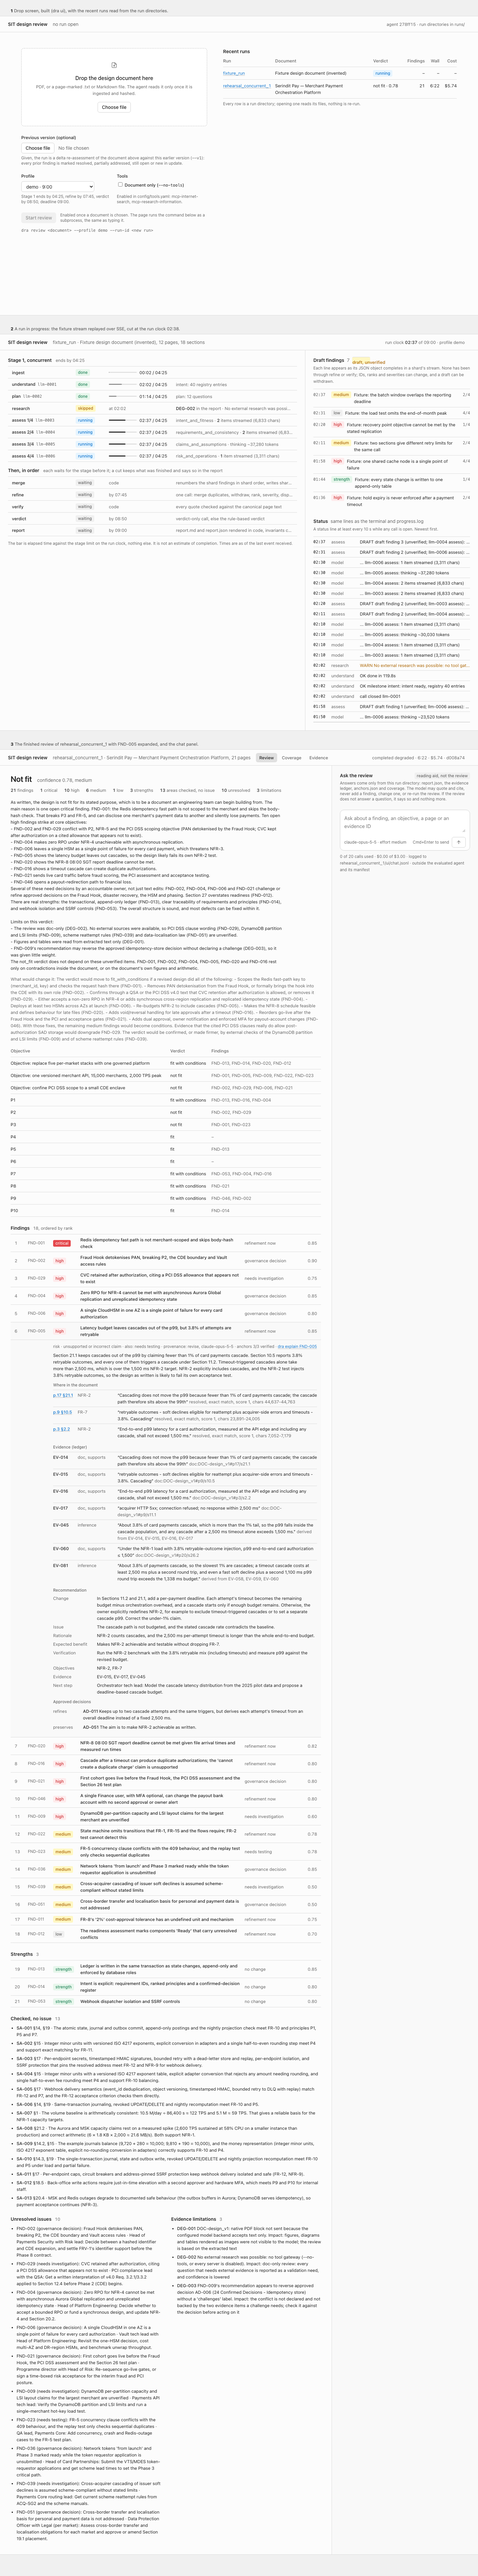
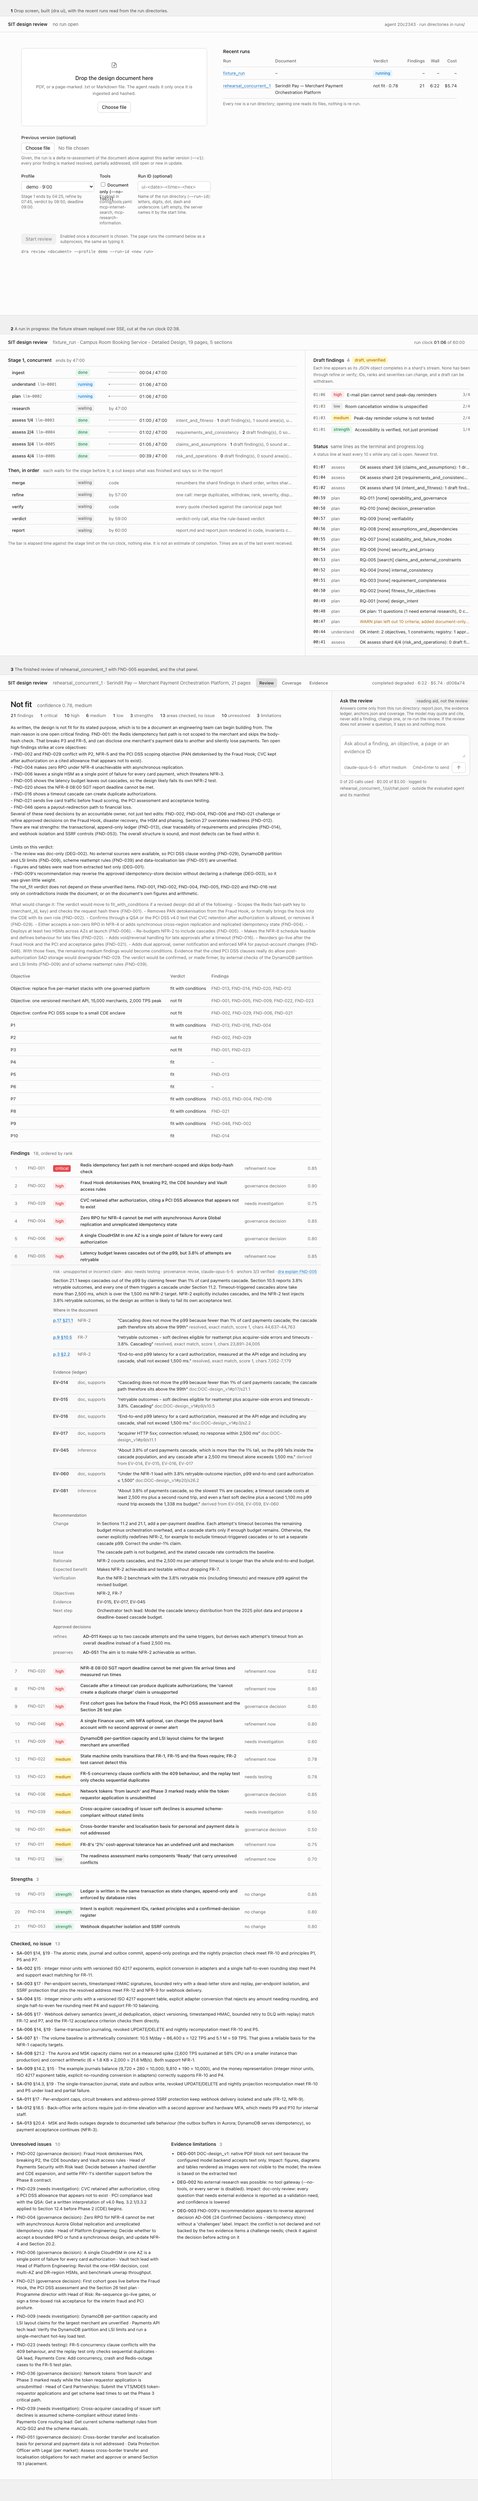
UI integration: replay, cut and resume on the page, tested in Chromium
tests/test_ui_page.py drives the shipped page in headless Chromium on
the real server: a dra replay of the committed rehearsal run (made in
a scratch run root by replay_run) opens with the "replayed evidence"
stamp, no Stop button and no track ever "running" (the stream is fed
record by record through the page's reducer: in flight means
"replayed"); the cut fixture's shard 2 shows "cut at mm:ss", its
disclosure ID, what it kept and the criteria not assessed, and its kept
drafts are in the feed; the resume fixture continues on the page with
one sequence, the failed phase done after the resume.

Two page fixes found by the pictures: a track whose call closed while
its phase was still open froze its time at the call's close (the end
now comes from phase_done unless the call was cut or failed), and the
"draft, unverified" pill matched the draft row rule through its
class (the row rules are scoped to the drafts list).

docs/design/ui_mockup/shoot_built.py reads the recorded stream (cut at
run clock 01:06, where every shard has drafted) and its pictures are
rebuilt from it.

diff --git a/agent/sit_review_agent/ui/static/app.css b/agent/sit_review_agent/ui/static/app.css
@@ -106,11 +106,11 @@ table.grid tr.link:hover { background: var(--bg-hover); }
 .feed { padding: 20px 24px 24px; min-width: 0; }
 .feed h2 { display: flex; align-items: center; gap: 8px; }
 .feed .rule { font-size: 12px; color: var(--fg-muted); margin: 4px 0 12px; }
-.draft { display: grid; grid-template-columns: 44px 1fr; gap: 10px; padding: 7px 0; border-top: 1px solid var(--border-subtle); font-size: 13px; }
-.draft .t { color: var(--fg-muted); }
-.draft .line { display: flex; gap: 8px; align-items: flex-start; }
-.draft .line .text { flex: 1; }
-.draft .line .who { color: var(--fg-muted); white-space: nowrap; }
+#drafts > .draft { display: grid; grid-template-columns: 44px 1fr; gap: 10px; padding: 7px 0; border-top: 1px solid var(--border-subtle); font-size: 13px; }
+#drafts > .draft .t { color: var(--fg-muted); }
+#drafts > .draft .line { display: flex; gap: 8px; align-items: flex-start; }
+#drafts > .draft .line .text { flex: 1; }
+#drafts > .draft .line .who { color: var(--fg-muted); white-space: nowrap; }
 .log { margin-top: 24px; }
 .log .rows { max-height: 560px; overflow-y: auto; border-bottom: 1px solid var(--border-subtle); }
 .log .row { display: grid; grid-template-columns: 44px 76px 1fr; gap: 10px; padding: 5px 0; border-top: 1px solid var(--border-subtle); font-size: 13px; }

diff --git a/agent/sit_review_agent/ui/static/app.js b/agent/sit_review_agent/ui/static/app.js
@@ -220,11 +220,9 @@ function applyEvent(m, ev) {
     case "call_retry": { const t = track(m, ev.phase); t.strong = null; t.text = "retry: " + words(f.reason); break; }
     case "call_closed": {
       const t = m.byCall.get(f.call_id); if (!t) break;
-      t.end = now;
-      if (f.outcome === "cut") { t.status = "cut"; t.cutAt = now; t.strong = null; t.text = typeof f.kept_items === "number" ? "kept " + intl(f.kept_items) + " finished item(s)" : t.text; }
-      else if (f.outcome === "replaced") { t.end = null; }
-      else if (CALL_FAILED.includes(f.outcome)) { t.status = "failed"; t.strong = null; t.text = words(f.outcome); }
-      else if (t.key.startsWith("assess ")) t.status = "done";
+      if (f.outcome === "cut") { t.status = "cut"; t.cutAt = now; t.end = now; t.strong = null; t.text = typeof f.kept_items === "number" ? "kept " + intl(f.kept_items) + " finished item(s)" : t.text; }
+      else if (CALL_FAILED.includes(f.outcome)) { t.status = "failed"; t.end = now; t.strong = null; t.text = words(f.outcome); }
+      else if (t.key.startsWith("assess ")) { t.status = "done"; t.end = now; }
       break;
     }
     case "draft_item":

diff --git a/tests/test_ui_page.py b/tests/test_ui_page.py
@@ -1,0 +1,174 @@
+"""The run view in a real browser (Chromium through Playwright; skipped where either is missing) on
+the recorded fixture streams and on a replayed run: a replay is stamped and never drawn as live, a
+cut shard shows its disclosure ID and what it kept, and a failed run resumed continues on the page
+with one sequence. The server is the real one on a loopback port; the page is the shipped page."""
+
+from __future__ import annotations
+
+import asyncio
+import json
+import shutil
+import socket
+import threading
+import time
+from pathlib import Path
+from typing import Any
+
+import pytest
+
+from sit_review_agent.ui import events
+from sit_review_agent.ui.launcher import Launcher
+from sit_review_agent.ui.server import UIState, build_app
+
+REPO = Path(__file__).resolve().parents[1]
+REHEARSAL = REPO / "docs" / "live_runs" / "rehearsal_concurrent_1"
+FIXTURES = Path(__file__).parent / "fixtures" / "ui"
+RUN_FILES = ("report.json", "manifest.json", "anchors.json", "ledger.json", "state.json", "effective_config.json",
+             "replay.json")
+
+
+def _free_port() -> int:
+    with socket.socket() as s:
+        s.bind(("127.0.0.1", 0))
+        return s.getsockname()[1]
+
+
+def records(path: Path) -> list[dict[str, Any]]:
+    return [json.loads(ln) for ln in path.read_text(encoding="utf-8").splitlines() if ln.strip()]
+
+
+@pytest.fixture(scope="module")
+def replayed(tmp_path_factory: pytest.TempPathFactory) -> Path:
+    """``dra replay`` of the committed rehearsal run into a scratch run root (offline: its recorded
+    model calls are served from ``llm.jsonl``)."""
+    from sit_review_agent.replay import replay_run
+
+    root = tmp_path_factory.mktemp("replay_root")
+    out = asyncio.run(replay_run(REHEARSAL, run_root=str(root), run_id="rehearsal_replay"))
+    assert out.exit_code == 0, out.message
+    return Path(out.run_dir)
+
+
+@pytest.fixture
+def served(tmp_path: Path, replayed: Path):
+    uvicorn = pytest.importorskip("uvicorn")
+    runs = tmp_path / "runs"
+    for name in ("progress.jsonl", "progress_cut.jsonl", "progress_resume.jsonl"):
+        d = runs / name[:-len(".jsonl")]
+        d.mkdir(parents=True)
+        shutil.copy2(FIXTURES / name, d / "progress.jsonl")
+    rp = runs / replayed.name
+    rp.mkdir()
+    for name in (*RUN_FILES, "progress.jsonl"):
+        if (replayed / name).is_file():
+            shutil.copy2(replayed / name, rp / name)
+    state = UIState(runs_dir=runs.resolve(), repo_root=REPO, launcher=Launcher(repo_root=REPO), chat_client=None,
+                    profiles=[], tools=[])  # type: ignore[arg-type]
+    port = _free_port()
+    server = uvicorn.Server(uvicorn.Config(build_app(state), host="127.0.0.1", port=port, log_level="warning"))
+    th = threading.Thread(target=server.run, daemon=True)
+    th.start()
+    for _ in range(200):
+        if server.started:
+            break
+        time.sleep(0.05)
+    yield f"http://127.0.0.1:{port}", runs
+    server.should_exit = True
+    th.join(timeout=5)
+
+
+@pytest.fixture
+def page(served):
+    sync_api = pytest.importorskip("playwright.sync_api")
+    base, runs = served
+    with sync_api.sync_playwright() as p:
+        try:
+            browser = p.chromium.launch()
+        except Exception as exc:  # noqa: BLE001 - Chromium not installed here
+            pytest.skip(f"Chromium not available: {exc}")
+        pg = browser.new_page(viewport={"width": 1440, "height": 900})
+        errors: list[str] = []
+        pg.on("pageerror", lambda e: errors.append(str(e)))
+        yield pg, base, runs
+        browser.close()
+    assert errors == []
+
+
+def open_run(pg: Any, base: str, run_id: str, tab: str | None = None) -> None:
+    pg.goto(base + f"/?run={run_id}" + (f"&tab={tab}" if tab else ""))
+    pg.wait_for_function("document.querySelector('#finished-bar') && !document.querySelector('#finished-bar').hidden")
+
+
+def tracks(pg: Any) -> dict[str, tuple[str, str]]:
+    rows = pg.evaluate("[...document.querySelectorAll('.track')].map(t => [t.dataset.track, t.dataset.status, "
+                       "t.querySelector('.status').textContent])")
+    return {r[0]: (r[1], r[2]) for r in rows}
+
+
+# ------------------------------------------------------------------ the replayed run (design note section 8)
+
+
+def test_a_replayed_run_is_stamped_and_never_drawn_as_live(page) -> None:
+    pg, base, runs = page
+    rp = next(p for p in runs.iterdir() if p.name.startswith("rehearsal_replay"))
+    evs = records(rp / "progress.jsonl")
+    assert events.started(evs)["mode"] == "replay"
+    opened = {r["fields"]["call_id"]: r["run_s"] for r in evs if r["type"] == "call_opened"}
+    closed = {r["fields"]["call_id"]: r["run_s"] for r in evs if r["type"] == "call_closed"}
+    assert opened and all(opened[c] == closed[c] for c in opened)      # replay opens a call just before closing it
+    open_run(pg, base, rp.name, tab="log")
+    assert pg.locator("#replay-stamp").inner_text() == "replayed evidence"
+    assert pg.locator(".pill.running").count() == 0 and pg.locator("#top-action button").count() == 0
+    t = tracks(pg)
+    assert all(t[k][0] == "done" for k in ("ingest", "understand", "plan", "research", "refine", "verify", "report"))
+    assert sorted(k for k in t if k.startswith("assess ")) == ["assess 1/4", "assess 2/4", "assess 3/4", "assess 4/4"]
+    # Fed record by record through the page's reducer, a track is never "running": in flight means "replayed".
+    seen = pg.evaluate("(evs) => { const m = SIT.newRunModel(); const st = new Set(); for (const ev of evs) { "
+                       "SIT.applyEvent(m, ev); for (const t of m.tracks.values()) st.add(t.status); } "
+                       "return [...st]; }", evs)
+    assert "running" not in seen and "replayed" in seen
+    report = json.loads((rp / "report.json").read_text(encoding="utf-8"))
+    assert pg.locator("#finished-bar").inner_text().endswith(f"{len(report['findings'])} findings.")
+
+
+# ------------------------------------------------------------------ a cut shard, a resumed run
+
+
+def test_the_cut_shard_shows_its_disclosure_id_and_what_it_kept(page) -> None:
+    pg, base, runs = page
+    evs = records(runs / "progress_cut" / "progress.jsonl")
+    cut = next(r["fields"] for r in evs if r["type"] == "shard_cut")
+    open_run(pg, base, "progress_cut")
+    t = tracks(pg)
+    key = f"assess {cut['shard']}/{cut['shards']}"
+    assert t[key][0] == "cut"
+    assert f"{cut['degradation_id']} in the report" in t[key][1]
+    assert f"kept {cut['kept']} finished finding(s)" in t[key][1]
+    assert all(c in t[key][1] for c in cut["criteria_not_assessed"])
+    pill = pg.locator(f'.track[data-track="{key}"] .pill').inner_text()
+    at = int(cut["cut_at_s"])
+    assert pill == f"cut at {at // 60:02d}:{at % 60:02d}"
+    assert [k for k, v in t.items() if v[0] == "cut"] == [key]
+    kept = [d["title"] for d in cut["kept_drafts"]]
+    titles = pg.locator("#drafts .draft .text").all_inner_texts()
+    assert all(k in titles for k in kept)
+    drafted = sum(r["fields"]["findings"] for r in evs if r["type"] == "shard_drafted")
+    assert len(titles) == drafted + len(kept)
+
+
+def test_a_resumed_run_continues_on_the_page_with_one_sequence(page) -> None:
+    pg, base, runs = page
+    evs = records(runs / "progress_resume" / "progress.jsonl")
+    open_run(pg, base, "progress_resume")
+    t = tracks(pg)
+    assert t["understand"][0] == "done" and t["report"][0] == "done"     # the failed phase ran again after the resume
+    assert pg.locator("#top-meta .pill", has_text="resumed").count() == 1
+    assert pg.locator("#status-feed .row").count() == sum(1 for r in evs if r["console"])
+    finished = [r for r in evs if r["type"] == "run_finished"]
+    assert [f["fields"]["exit_code"] for f in finished] == [3, 0]
+    assert pg.locator("#finished-bar").inner_text().startswith("Run finished: completed")
+    # The server streams both halves under one sequence.
+    sse = pg.evaluate("async (u) => { const r = await fetch(u); return await r.text(); }",
+                      base + "/runs/progress_resume/events")
+    ids = [int(ln[4:]) for ln in sse.splitlines() if ln.startswith("id: ")]
+    assert ids == list(range(1, len(evs) + 1)) and "event: end" in sse

diff --git a/docs/design/ui_mockup/shoot_built.py b/docs/design/ui_mockup/shoot_built.py
@@ -7,7 +7,7 @@ Writes ``built_1_drop.png``, ``built_2_running.png``, ``built_3_review.png`` and
 
 Data, all offline: a scratch runs directory holding the recorded fixture stream
 ``tests/fixtures/ui/progress.jsonl`` (a fixture run on the fake gateway, ``tests/fixtures/ui/record_fixtures.py``)
-cut at the run clock 01:00 (frame 2, served over SSE as a run still in progress) and the report files
+cut at the run clock 01:06 (frame 2, served over SSE as a run still in progress) and the report files
 of ``docs/live_runs/rehearsal_concurrent_1`` (frames 1 and 3). No model call is made and no run is started. Before each picture the script checks the page
 against the run directory and prints counts only: the findings' titles and statements in the DOM
 equal ``report.json``, and the draft rows equal the fixture's draft events.
@@ -31,7 +31,7 @@ REPO = HERE.parents[2]
 REHEARSAL = REPO / "docs" / "live_runs" / "rehearsal_concurrent_1"
 FIXTURE = REPO / "tests" / "fixtures" / "ui" / "progress.jsonl"
 RUN_FILES = ("report.json", "manifest.json", "anchors.json", "ledger.json", "state.json", "effective_config.json")
-RUNNING_UNTIL_T = 60.0    # run-clock seconds: stage 1 of the fixture run is still open at 01:00
+RUNNING_UNTIL_T = 66.0    # run-clock seconds: every shard has drafted, understand and plan are still open
 EXPAND = "FND-005"        # the finding frame 3 of the mockup shows expanded
 
 
